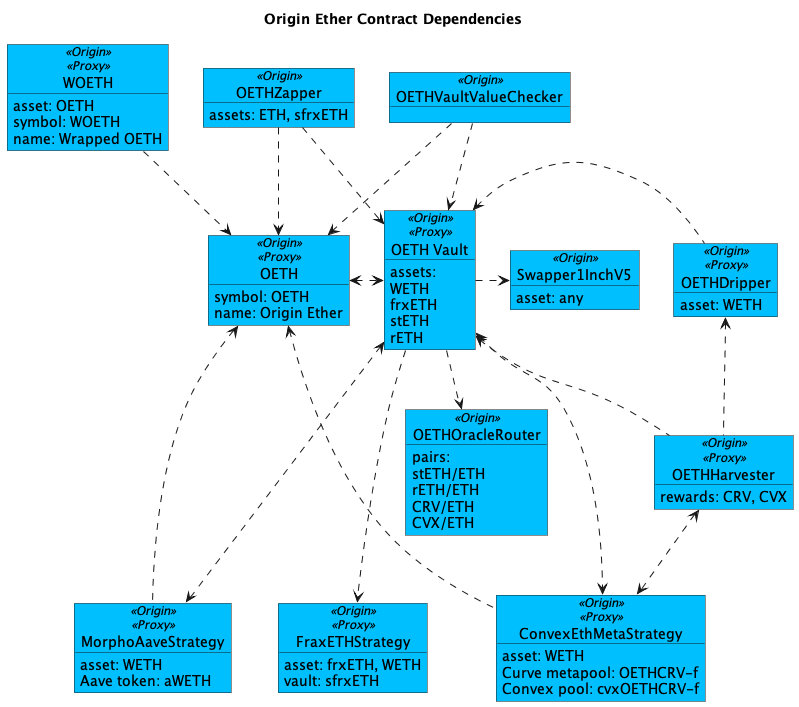
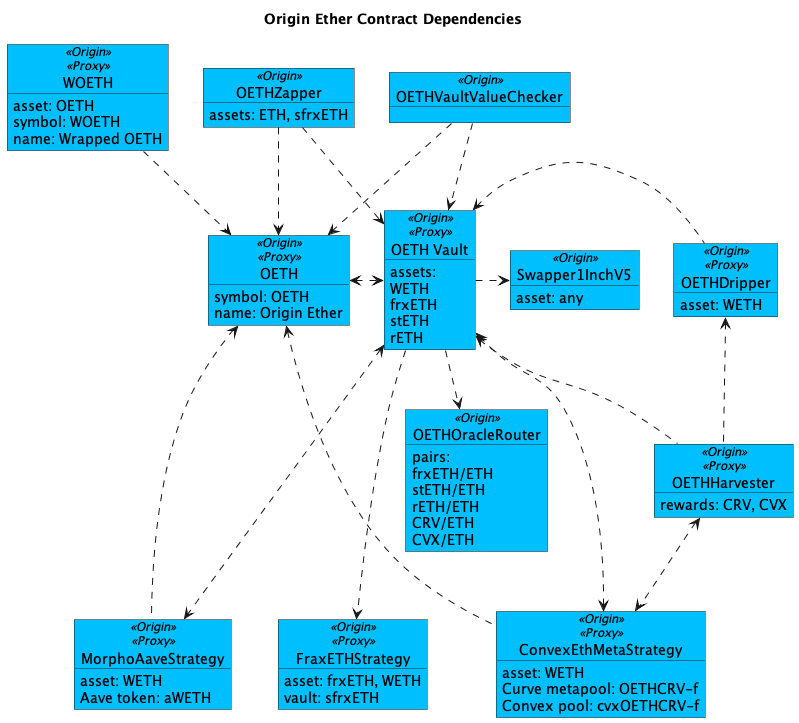
GITBOOK-251: change request with no subject merged in GitBook

diff --git a/smart-contracts/registry/oeth-registry.md b/smart-contracts/registry/oeth-registry.md
@@ -2,7 +2,7 @@
 
 Most of Origin's contracts are upgradable via a well-known proxy wrapper and an implementation contract. The Vault is split into VaultAdmin and VaultCore to work around the maximum contract size limit on Ethereum.
 
-<figure><img src="../../.gitbook/assets/oethContracts (2).png" alt=""><figcaption><p>OETH Contract Dependencies</p></figcaption></figure>
+<figure><img src="../../.gitbook/assets/oethContracts.png" alt=""><figcaption><p>OETH Contract Dependencies</p></figcaption></figure>
 
 **OETH Core**
 
@@ -24,11 +24,15 @@ OETH is backed by WETH and the following liquid staking tokens:
 
 **Oracles**
 
-<table><thead><tr><th width="204">Contract</th><th>Address</th></tr></thead><tbody><tr><td>OETH Oracle Router</td><td>0x3cCD26E82F7305B12742fBb36708B42f82B61dBa</td></tr></tbody></table>
+<table><thead><tr><th width="204">Contract</th><th>Address</th></tr></thead><tbody><tr><td>OETH Oracle Router</td><td>0xbE19cC5654e30dAF04AD3B5E06213D70F4e882eE</td></tr></tbody></table>
 
 The following Chainlink oracles are used to protect the vault in case a backing asset loses value. They also offer slippage protection when harvesting rewards tokens.
 
 <table><thead><tr><th width="204">Pair</th><th>Contract</th></tr></thead><tbody><tr><td><a href="https://data.chain.link/ethereum/mainnet/crypto-eth/steth-eth">stETH/ETH</a></td><td>0x86392dc19c0b719886221c78ab11eb8cf5c52812</td></tr><tr><td><a href="https://data.chain.link/ethereum/mainnet/crypto-eth/reth-eth">rETH/ETH</a></td><td>0x536218f9e9eb48863970252233c8f271f554c2d0</td></tr><tr><td><a href="https://data.chain.link/ethereum/mainnet/crypto-eth/crv-eth">CRV/ETH</a></td><td>0x8a12be339b0cd1829b91adc01977caa5e9ac121e</td></tr><tr><td><a href="https://data.chain.link/ethereum/mainnet/crypto-eth/cvx-eth">CVX/ETH</a></td><td>0xC9CbF687f43176B302F03f5e58470b77D07c61c6</td></tr></tbody></table>
+
+Frax's [frxETH/ETH Oracle](https://docs.frax.finance/frax-oracle/frax-oracle-overview#major-components) is used for frxETH pricing as there is no Chainlink Oracle for the frxETH/ETH pair. This sources prices from Curve's frxETH/ETH pool and Uniswap's frxETH/FRAX pool. Chainlink FRAX/USD and ETH/USD Oracles are then used to convert frxETH/FRAX back to a frxETH/ETH price.
+
+<table><thead><tr><th width="204">Pair</th><th>Contract</th></tr></thead><tbody><tr><td>frxETH/ETH</td><td>0xc58f3385fbc1c8ad2c0c9a061d7c13b141d7a5df</td></tr><tr><td><a href="https://data.chain.link/ethereum/mainnet/stablecoins/frax-usd">FRAX/USD</a></td><td>0xb9e1e3a9feff48998e45fa90847ed4d467e8bcfd</td></tr><tr><td><a href="https://data.chain.link/ethereum/mainnet/crypto-usd/eth-usd">ETH/USD</a></td><td>0x5f4ec3df9cbd43714fe2740f5e3616155c5b8419</td></tr></tbody></table>
 
 **Deprecated**
 
